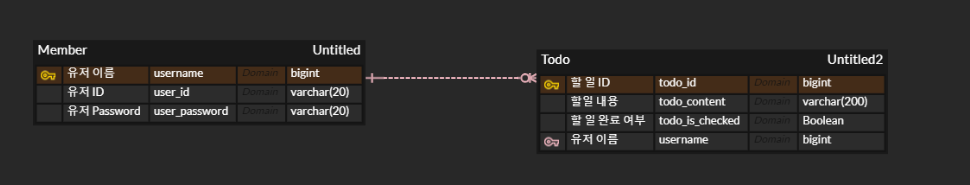
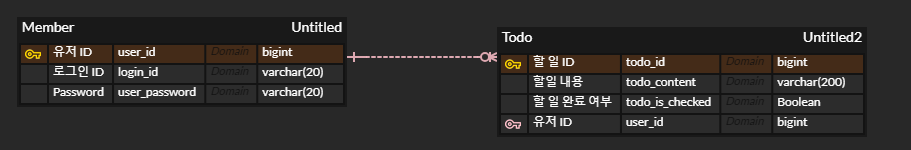
week4-wil 수정

diff --git a/week4/wil.md b/week4/wil.md
@@ -23,16 +23,16 @@
             ![image.png](image.png)
             
     - <DB 설계 실습>
-    
-    ![image.png](image%201.png)
-    
+        
+        ![image.png](image%201.png)
+        
 
 ---
 
 - JPA (Java Persistence API)
     - 데이터베이스에서 읽어온 데이터를 자바 객체로 매핑하는 자바의 표준 기술 (ORM)
     - 엔티티(Entity)는 자바와 데이터베이스가 소통하는 단위
-    - 테이블의 데이터 하나(레코드)는 엔티티 객체 하나로 매핑된다
+    - 테이블은 엔티티 객체 하나로 매핑된다
     
     → 엔티티 클래스를 정의하면, **JPA**가 엔티티 클래스 정의를 보고 테이블을 생성하는 SQL(쿼리)을 알아서 작성하고 실행한다.
     
@@ -42,11 +42,14 @@
             
             ![image.png](image%202.png)
             
-        - resources – application.properties 파일에 DB 접속 정보를 작성(.yml)
+        - resources – application.properties 파일에 **DB 접속 정보**를 작성(application.yml로 바꾸기)
             
             ![image.png](image%203.png)
             
         - 후, main 에서 application 실행 후, 관리자 콘솔 접속으로 DB 연결
+            
+            ![image.png](image%204.png)
+            
 
 ---
 
@@ -63,6 +66,7 @@
 - 엔티티로 저장하면 테이블을 만들 때 외래키를 만들어주고, 연관된 데이터가 필요할 때, 자동으로 join 쿼리가 실행되면서 연관된 데이터를 얻는다.
     - @JoinColumn : 외래키(FK) 컬럼 정보를 명시하는 어노테이션 (FK 컬럼 이름 등)
     - @ManyToOne
+        - Many : Todo, One : Member 이기 때문에 Todo 에 있어야함
     - @OneToOne
     - @ManyToMany 는 N : M 관계를 나타낸다. N : M 관계는 외래키대신 **테이블**로 구현하므로 사용하지 않는다.
     - @OneToMany :  1에 해당하는 엔티티(ex. 유저)에 N(ex. 동아리)에 대한 연관관계를 명시하는
@@ -76,3 +80,33 @@
     - JPA는 엔티티 객체를 다룰 때 public 또는 protected의 인자 없는 생성자(**기본 생성자**)가 필요하다.
         - @NoArgsConstructor (이때 access 속성을 통해 접근 제한자를 protected로 설정)
         - 엔티티 객체에 @Getter를 추가해 모든 필드에 getter를 만든다.
+    - <실습> : 나는 lombok을 이용했다.. gradle에 lombok 의존성 추가하기!
+        
+        ![image.png](image%205.png)
+        
+    
+    ---
+    
+    다시 application 을 재가동해 console에서 다양한 sql 문을 적어봤다. 
+    
+    +) H2 데이터베이스를 메모리 모드(jdbc:h2:mem)로 사용했기 때문에, 데이터베이스는 실제 파일이 아닌 메모리에 존재한다. 이는 어플리케이션을 실행하는 동안에만 유지되기 때문에 테스트에 적합하다!!
+    
+    - 데이터 넣기
+        
+        ![image.png](image%206.png)
+        
+        ![image.png](image%207.png)
+        
+    - 데이터 수정 하기
+        
+        ![image.png](image%208.png)
+        
+        ![image.png](image%209.png)
+        
+    - 데이터 삭제하기
+        - Todo에서 Member 의 user_id를 참조하고 있기 때문에… Todo에서 user_id 참조하고 있는 레코드를 먼저 지우셔야 한단 얘기고..
+        
+        ![image.png](image%2010.png)
+        
+
+![image.png](image%2011.png)
